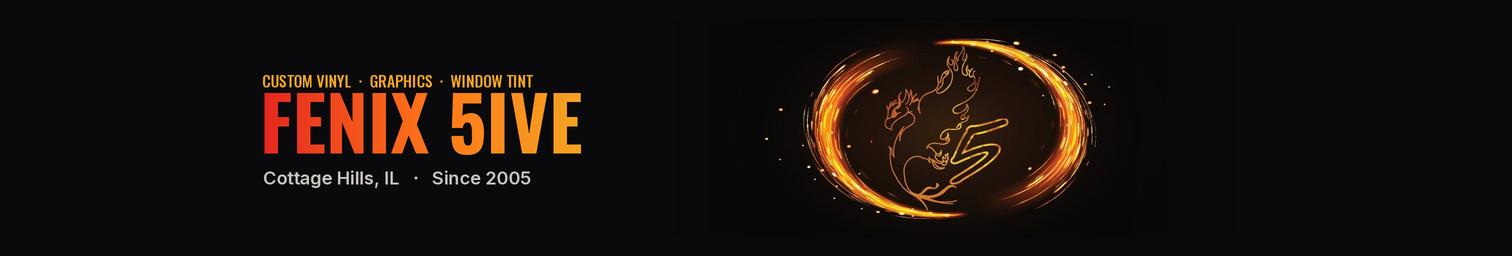
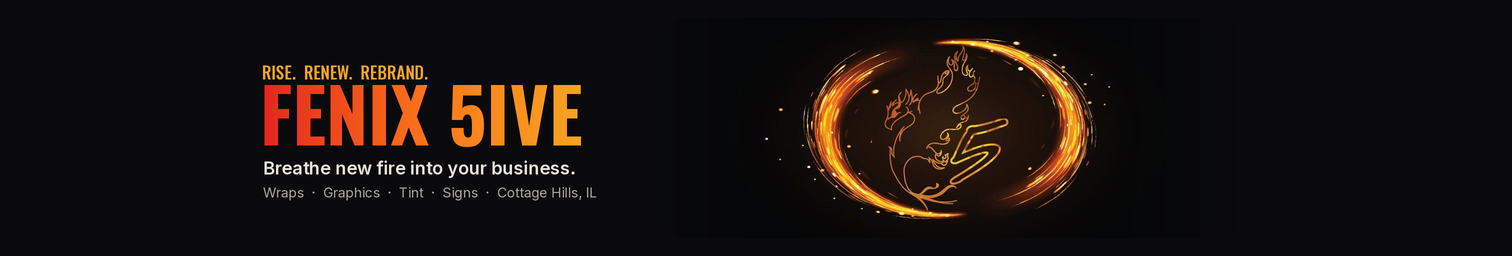
Apply the Rise. Renew. Rebrand. tagline across the LinkedIn kit
Banner now carries the tagline above and below the wordmark, the launch
post graphic uses it as the headline, and the copy sheet records it as
the chosen tagline with alternates, plus the About and launch post text.

Claude-Session: https://claude.ai/code/session_016iobmrKRgnNkCMN7RR5gY5

Changed region(s): [[0.1554, 0.25, 0.4041, 0.7812]]

diff --git a/linkedin/README.md b/linkedin/README.md
@@ -10,10 +10,10 @@ the site are stock, so they are intentionally not used here.
 |---|---|---|
 | `fenix5ive-logo-400x400-white.png` | **Page logo** (recommended) | 400 × 400 |
 | `fenix5ive-logo-400x400-dark.png` | Page logo, dark alternative | 400 × 400 |
-| `fenix5ive-cover-3024x512.png` | **Cover image** with wordmark (upload this one) | 3024 × 512 (2× of 1512 × 256) |
+| `fenix5ive-cover-3024x512.png` | **Cover image** with wordmark and tagline (upload this one) | 3024 × 512 (2× of 1512 × 256) |
 | `fenix5ive-cover-1512x256.png` | Same cover at LinkedIn's exact recommended size | 1512 × 256 |
 | `fenix5ive-cover-phoenix-only-3024x512.png` | Cover alternative, no text | 3024 × 512 |
-| `fenix5ive-first-post-1200x1200.png` | Image for the launch post | 1200 × 1200 |
+| `fenix5ive-first-post-1200x1200.png` | Image for the launch post (tagline headline) | 1200 × 1200 |
 
 Where to upload: Page super admin view → **Edit page** → **Header** (logo, cover) and the rest below.
 
@@ -44,13 +44,17 @@ Where to upload: Page super admin view → **Edit page** → **Header** (logo, c
 
 **Hashtags (Page can follow up to 3):** #VehicleWraps #WindowTint #RiverbendIL
 
-### Tagline (120 characters max) — pick one
+### Tagline (120 characters max)
 
-1. Custom vehicle wraps, vinyl graphics & window tint in the Riverbend. Cottage Hills, IL, since 2005.
-2. Wraps. Graphics. Tint. Signs. Turning Riverbend rides and storefronts into head-turners since 2005.
-3. Your brand, on the road. Custom wraps, signs, graphics & window tint from Cottage Hills, IL.
-4. If it sits still, we can wrap it. Vehicle wraps, vinyl graphics, signs & tint in Cottage Hills, IL.
-5. The Riverbend's custom vinyl, graphics & window tint shop since 2005.
+**Chosen:**
+
+Rise. Renew. Rebrand. Breathe new fire into your business. Wraps · Graphics · Tint · Signs · Cottage Hills, IL
+
+Alternates if it ever needs a refresh:
+
+- Rise. Renew. Rebrand. Breathe new fire into your business with vehicle wraps, vinyl graphics, window tint & signs.
+- Rise. Renew. Rebrand. Breathing new fire into Riverbend businesses with wraps, graphics, tint & signs since 2005.
+- Custom vehicle wraps, vinyl graphics & window tint in the Riverbend. Cottage Hills, IL, since 2005.
 
 ### Specialties (add each as its own entry)
 
@@ -58,7 +62,9 @@ Vehicle Wraps · Commercial Fleet Wraps · Window Tint · Ceramic Tint · Commer
 Vinyl Graphics · Custom Signs · Yard Signs · Custom Banners · Auto Detailing · Graphic Design ·
 Logo Design · Sublimation · Custom Printing
 
-### About / Overview (2,000 characters max — this is about 1,730)
+### About / Overview (2,000 characters max — this is about 1,750)
+
+Rise. Renew. Rebrand.
 
 Fenix 5ive is a custom vinyl, graphics, and window tint shop in Cottage Hills, Illinois. Since 2005 we have helped Riverbend businesses build their brand presence and get noticed, from full vehicle and fleet wraps to storefront signage to flawless window tint.
 
@@ -79,7 +85,7 @@ Call 618-251-4221 · Text 618-917-4491 · fenix5ive@gmail.com · fenix5ive.com
 
 ## Launch post (use with `fenix5ive-first-post-1200x1200.png`)
 
-Fenix 5ive is now on LinkedIn.
+Rise. Renew. Rebrand. Fenix 5ive is now on LinkedIn.
 
 Since 2005 we've been helping Riverbend businesses get noticed: custom vehicle and fleet wraps, vinyl graphics, signs and banners, window tint, and in-house design from an art team with backgrounds at Marvel, IDW Comics, and Disney.
 
